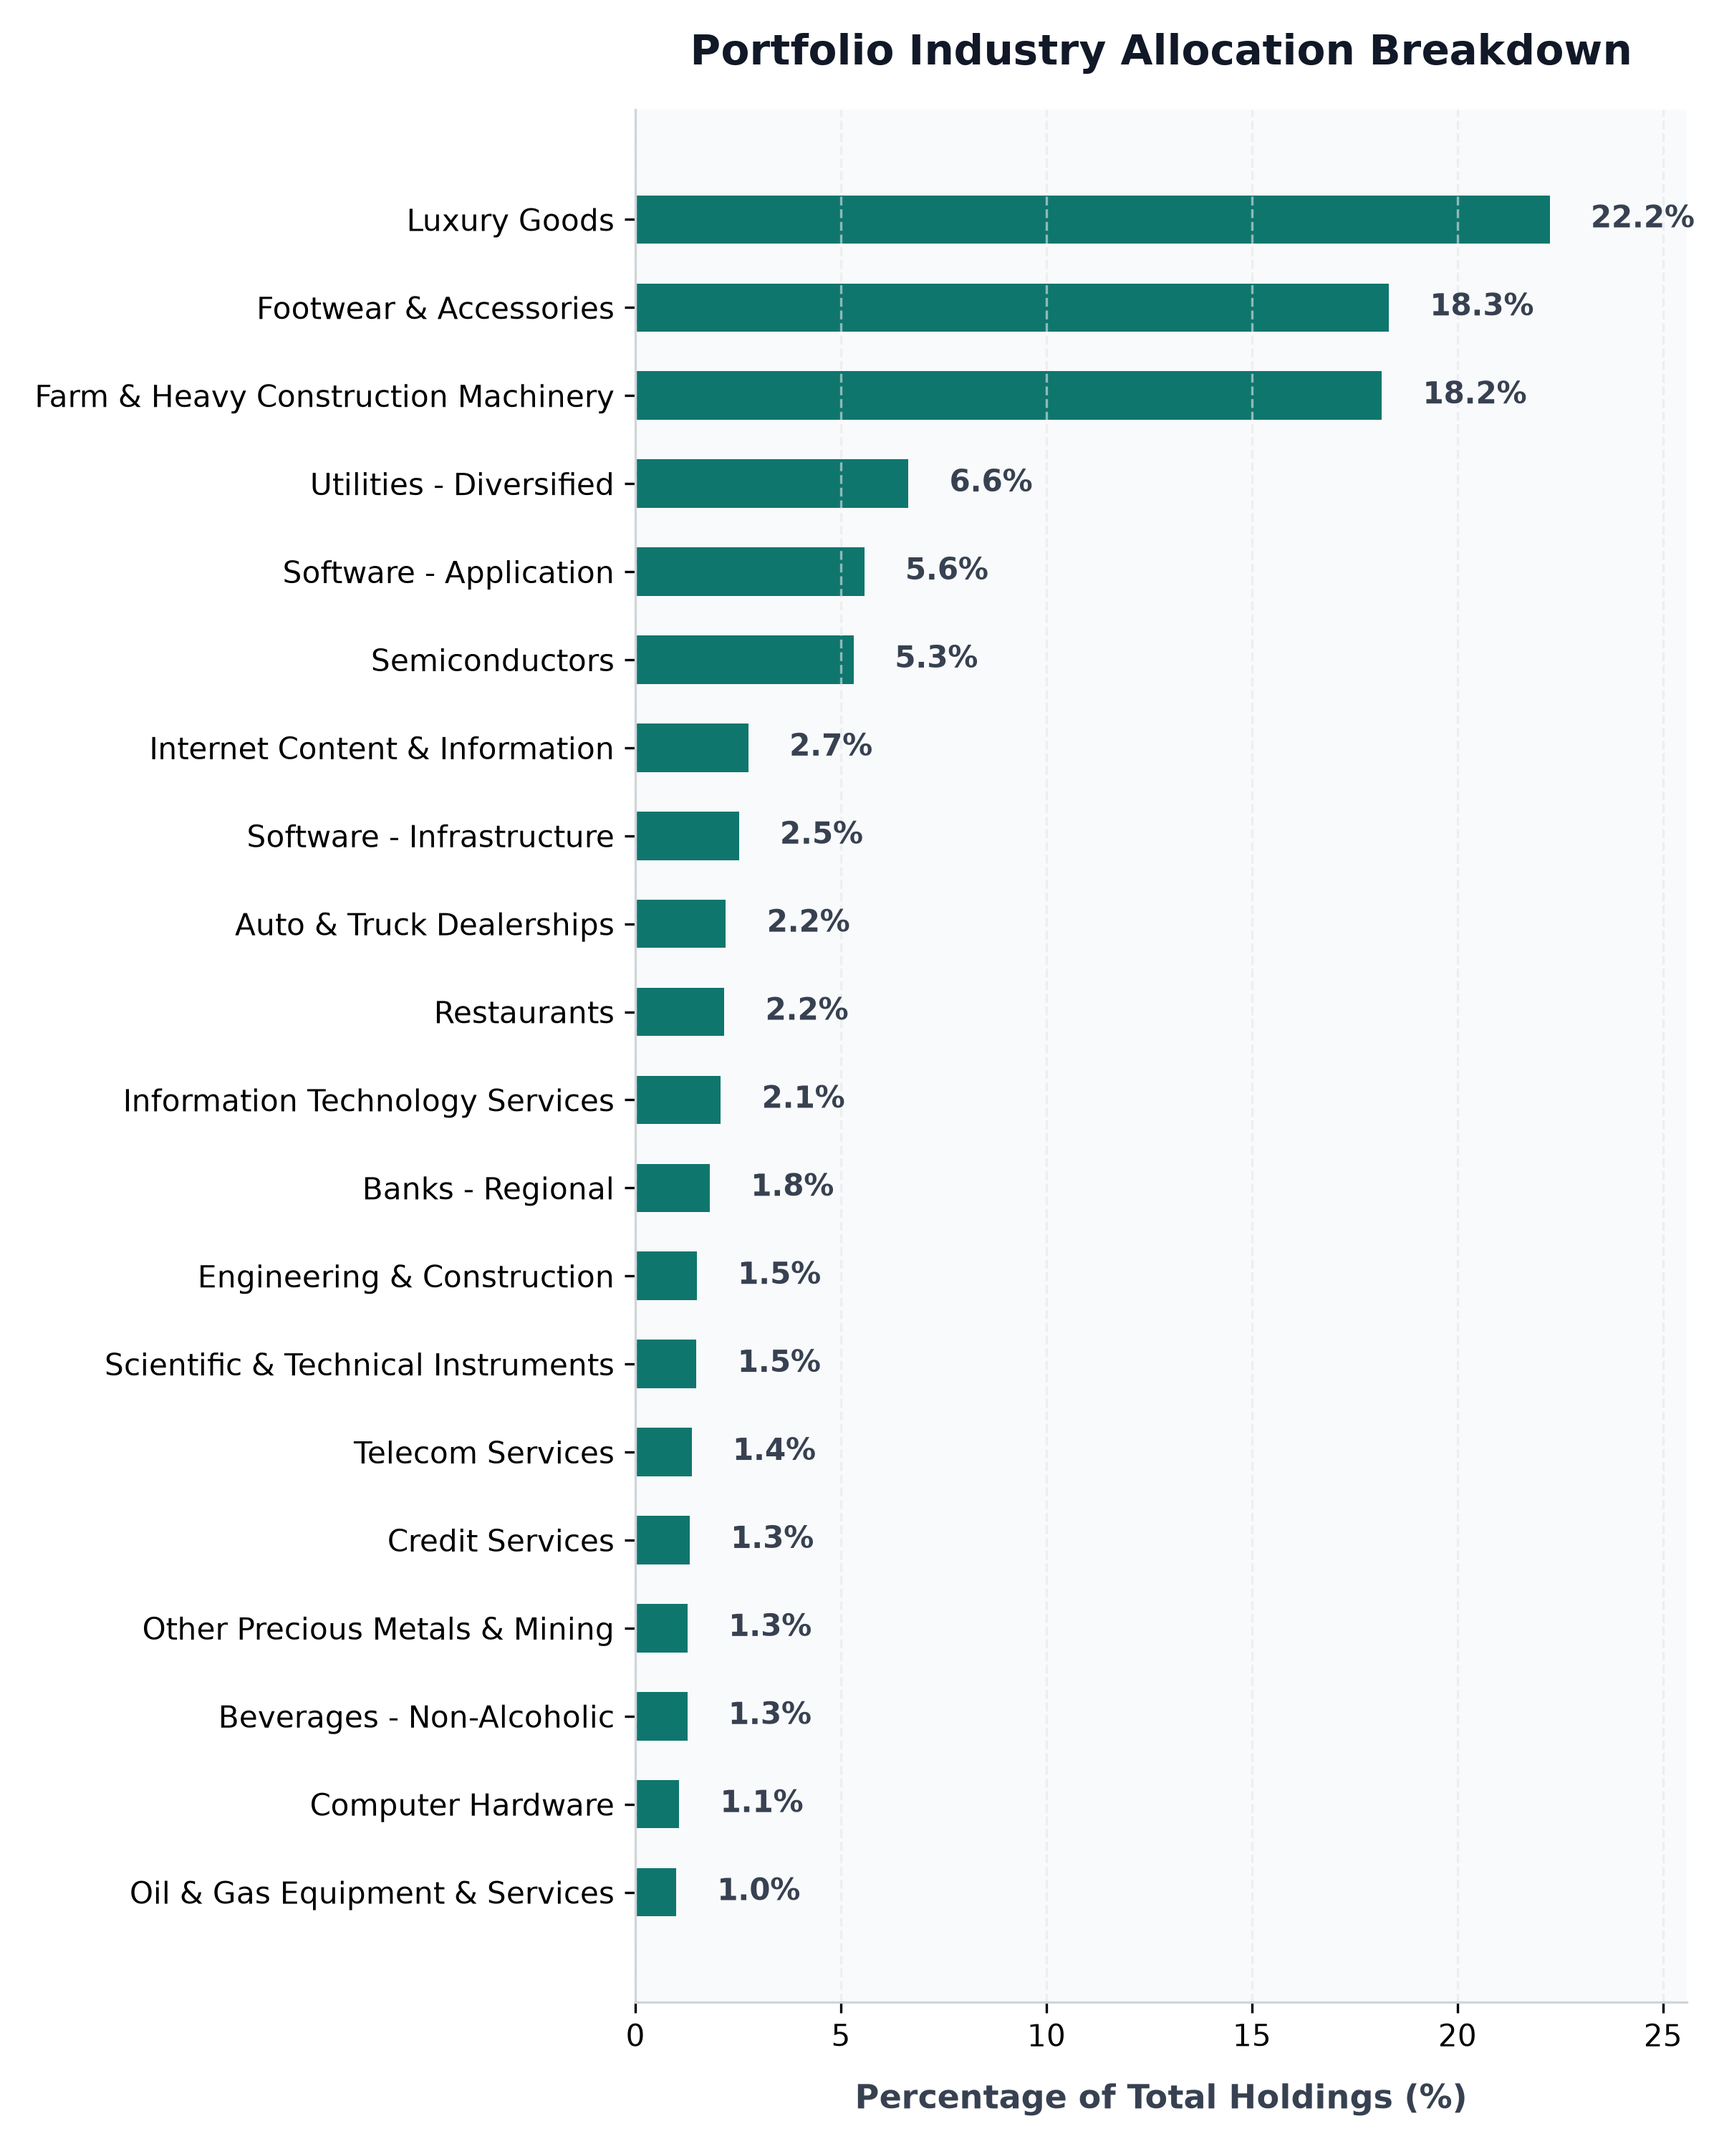
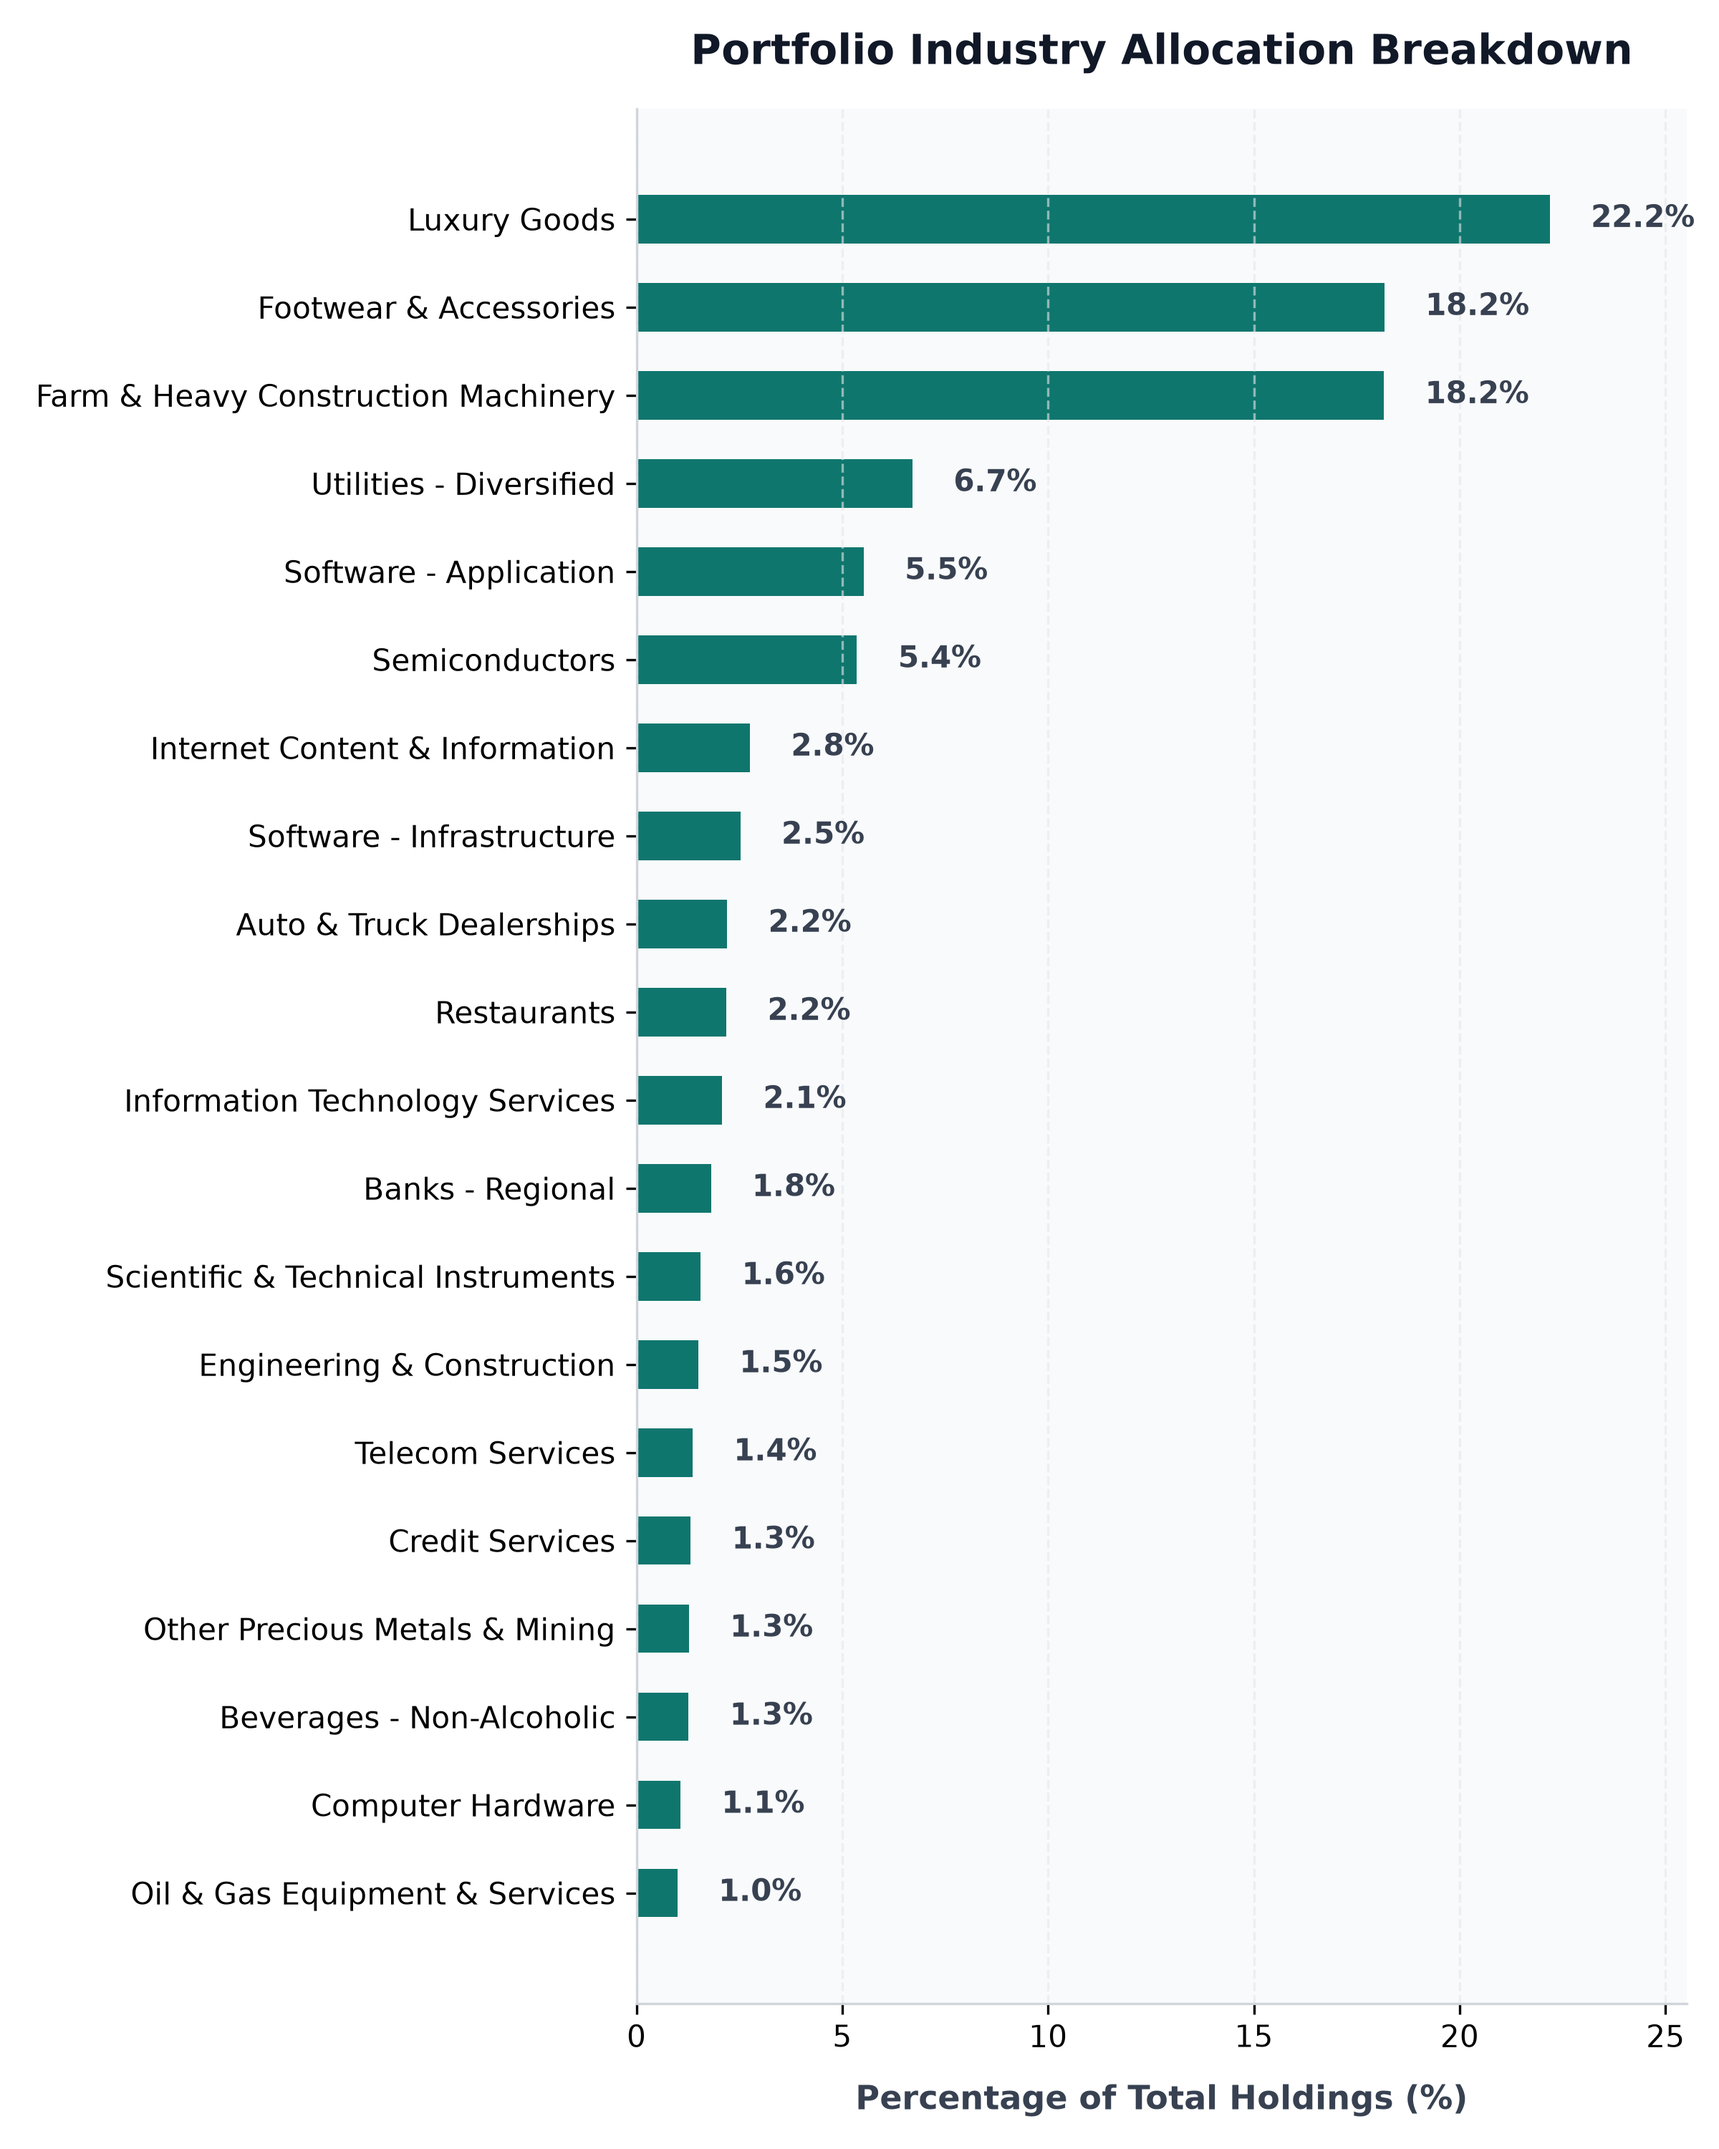
auto: daily portfolio status update - 2026-10-28 06:05:13

diff --git a/src/content/posts/portfolio-performance.md b/src/content/posts/portfolio-performance.md
@@ -1,6 +1,6 @@
 ---
 title: "BadOmen Algorithmic Portfolio Performance & PnL Report"
-pubDatetime: 2026-10-28T00:00:15.005229+08:00
+pubDatetime: 2026-10-28T06:05:13.150614+08:00
 description: "Live performance metrics, active holdings, and historic equity curve for the BadOmen automated paper trading portfolio."
 featured: true
 draft: false
@@ -16,11 +16,11 @@ Welcome to the live performance dashboard for **BadOmen**, our automated algorit
 ## 📊 Portfolio Summary
 | Performance Metric | Value | description |
 | :--- | :--- | :--- |
-| **Net Portfolio Equity** | **$96,741.70** | Total current liquidation value of cash and stock holdings |
-| **Total Unrealized P&L** | 🔴 **$-4,352.21** (-4.31%) | Total return of current open holdings |
+| **Net Portfolio Equity** | **$96,538.93** | Total current liquidation value of cash and stock holdings |
+| **Total Unrealized P&L** | 🔴 **$-4,557.96** (-4.51%) | Total return of current open holdings |
 | **Cash Balance** | $24,269.00 | Idle reserve currency available for limit orders |
-| **Buying Power** | $299,999.56 | Margin-backed buying power for entry allocations |
-| **Report Updated** | `2026-10-28 00:00:15 (SGT)` | Timestamp of daily execution and sync run |
+| **Buying Power** | $299,431.79 | Margin-backed buying power for entry allocations |
+| **Report Updated** | `2026-10-28 06:05:13 (SGT)` | Timestamp of daily execution and sync run |
 
 ## 📈 Net Equity Growth Curve
 The chart below illustrates the historical performance of the account starting from our baseline capital funding of $100,000.00.
@@ -35,35 +35,35 @@ The chart below illustrates the exposure of our currently held active positions 
 ## 💼 Current Position Holdings
 | Ticker | Industry | Shares Owned | Average Entry Cost | Current Price | Unrealized P&L | Return (%) |
 | :--- | :--- | :--- | :--- | :--- | :--- | :--- |
-| **AN** | Auto & Truck Dealerships | 5 | $188.51 | $164.99 | 🔴 $-117.59 | -12.48% |
-| **AVGO** | Semiconductors | 1 | $385.71 | $342.43 | 🔴 $-43.28 | -11.22% |
-| **BIRK** | Footwear & Accessories | 407 | $37.32 | $32.64 | 🔴 $-1,903.83 | -12.53% |
-| **BLBD** | Farm & Heavy Construction Machinery | 231 | $65.52 | $56.97 | 🔴 $-1,974.12 | -13.04% |
-| **BVN** | Other Precious Metals & Mining | 32 | $31.88 | $28.69 | 🔴 $-101.92 | -9.99% |
-| **CELH** | Beverages - Non-Alcoholic | 33 | $29.71 | $27.71 | 🔴 $-66.09 | -6.74% |
-| **CPRI** | Luxury Goods | 1042 | $14.55 | $15.47 | 🟢 +$956.76 | +6.31% |
-| **DUOL** | Software - Application | 14 | $131.04 | $141.99 | 🟢 +$153.24 | +8.35% |
-| **FIS** | Information Technology Services | 23 | $41.79 | $35.76 | 🔴 $-138.81 | -14.44% |
-| **GDDY** | Software - Infrastructure | 6 | $76.21 | $105.86 | 🟢 +$177.90 | +38.91% |
-| **GDS** | Information Technology Services | 30 | $32.77 | $22.73 | 🔴 $-301.35 | -30.65% |
-| **GGAL** | Banks - Regional | 17 | $56.04 | $35.33 | 🔴 $-352.06 | -36.95% |
-| **GOOGL** | Internet Content & Information | 3 | $319.44 | $321.08 | 🟢 +$4.92 | +0.51% |
-| **GPI** | Auto & Truck Dealerships | 3 | $316.15 | $256.14 | 🔴 $-180.03 | -18.98% |
-| **HUBS** | Software - Application | 8 | $221.18 | $255.70 | 🟢 +$276.15 | +15.61% |
-| **ITRI** | Scientific & Technical Instruments | 12 | $81.80 | $89.80 | 🟢 +$96.00 | +9.78% |
-| **KBR** | Engineering & Construction | 27 | $36.23 | $40.05 | 🟢 +$103.06 | +10.54% |
-| **NESR** | Oil & Gas Equipment & Services | 34 | $28.74 | $21.09 | 🔴 $-259.93 | -26.60% |
-| **NU** | Banks - Regional | 57 | $11.60 | $12.46 | 🟢 +$48.82 | +7.38% |
-| **ON** | Semiconductors | 10 | $90.45 | $78.06 | 🔴 $-123.95 | -13.70% |
-| **ORCL** | Software - Infrastructure | 5 | $181.95 | $130.61 | 🔴 $-256.70 | -28.22% |
-| **PATH** | Software - Infrastructure | 38 | $10.25 | $14.10 | 🟢 +$146.30 | +37.56% |
-| **PYPL** | Credit Services | 17 | $56.05 | $56.23 | 🟢 +$3.15 | +0.33% |
-| **QCOM** | Semiconductors | 15 | $193.68 | $181.77 | 🔴 $-178.72 | -6.15% |
-| **SMCI** | Computer Hardware | 22 | $29.25 | $35.03 | 🟢 +$127.27 | +19.78% |
-| **SRE** | Utilities - Diversified | 57 | $84.75 | $84.43 | 🔴 $-18.38 | -0.38% |
-| **T** | Telecom Services | 47 | $20.85 | $21.09 | 🟢 +$11.28 | +1.15% |
-| **WEN** | Restaurants | 257 | $8.02 | $6.09 | 🔴 $-495.68 | -24.04% |
-| **ZG** | Internet Content & Information | 31 | $31.35 | $33.14 | 🟢 +$55.39 | +5.70% |
+| **AN** | Auto & Truck Dealerships | 5 | $188.51 | $164.81 | 🔴 $-118.49 | -12.57% |
+| **AVGO** | Semiconductors | 1 | $385.71 | $341.08 | 🔴 $-44.63 | -11.57% |
+| **BIRK** | Footwear & Accessories | 407 | $37.32 | $32.26 | 🔴 $-2,058.49 | -13.55% |
+| **BLBD** | Farm & Heavy Construction Machinery | 231 | $65.52 | $56.82 | 🔴 $-2,008.77 | -13.27% |
+| **BVN** | Other Precious Metals & Mining | 32 | $31.88 | $28.74 | 🔴 $-100.32 | -9.84% |
+| **CELH** | Beverages - Non-Alcoholic | 33 | $29.71 | $27.75 | 🔴 $-64.77 | -6.61% |
+| **CPRI** | Luxury Goods | 1042 | $14.55 | $15.39 | 🟢 +$873.40 | +5.76% |
+| **DUOL** | Software - Application | 14 | $131.04 | $141.01 | 🟢 +$139.52 | +7.61% |
+| **FIS** | Information Technology Services | 23 | $41.79 | $35.58 | 🔴 $-142.84 | -14.86% |
+| **GDDY** | Software - Infrastructure | 6 | $76.21 | $106.21 | 🟢 +$180.00 | +39.37% |
+| **GDS** | Information Technology Services | 30 | $32.77 | $22.81 | 🔴 $-298.80 | -30.39% |
+| **GGAL** | Banks - Regional | 17 | $56.04 | $35.14 | 🔴 $-355.29 | -37.29% |
+| **GOOGL** | Internet Content & Information | 3 | $319.44 | $321.84 | 🟢 +$7.20 | +0.75% |
+| **GPI** | Auto & Truck Dealerships | 3 | $316.15 | $256.00 | 🔴 $-180.45 | -19.03% |
+| **HUBS** | Software - Application | 8 | $221.18 | $251.79 | 🟢 +$244.87 | +13.84% |
+| **ITRI** | Scientific & Technical Instruments | 12 | $81.80 | $94.00 | 🟢 +$146.40 | +14.91% |
+| **KBR** | Engineering & Construction | 27 | $36.23 | $40.23 | 🟢 +$107.92 | +11.03% |
+| **NESR** | Oil & Gas Equipment & Services | 34 | $28.74 | $21.14 | 🔴 $-258.49 | -26.45% |
+| **NU** | Banks - Regional | 57 | $11.60 | $12.45 | 🟢 +$48.53 | +7.34% |
+| **ON** | Semiconductors | 10 | $90.45 | $76.90 | 🔴 $-135.55 | -14.99% |
+| **ORCL** | Software - Infrastructure | 5 | $181.95 | $130.81 | 🔴 $-255.70 | -28.11% |
+| **PATH** | Software - Infrastructure | 38 | $10.25 | $14.01 | 🟢 +$142.88 | +36.68% |
+| **PYPL** | Credit Services | 17 | $56.05 | $56.00 | 🔴 $-0.85 | -0.09% |
+| **QCOM** | Semiconductors | 15 | $193.68 | $184.11 | 🔴 $-143.62 | -4.94% |
+| **SMCI** | Computer Hardware | 22 | $29.25 | $35.07 | 🟢 +$128.04 | +19.90% |
+| **SRE** | Utilities - Diversified | 57 | $84.75 | $85.01 | 🟢 +$14.68 | +0.30% |
+| **T** | Telecom Services | 47 | $20.85 | $20.97 | 🟢 +$5.63 | +0.57% |
+| **WEN** | Restaurants | 257 | $8.02 | $6.14 | 🔴 $-484.12 | -23.48% |
+| **ZG** | Internet Content & Information | 31 | $31.35 | $33.10 | 🟢 +$54.15 | +5.57% |
 
 ## 🔴 Recent Realized Trades
 | Ticker | Shares Sold | Entry Price | Exit Price | Strategy Trigger | Realized Return | Exit Date |
